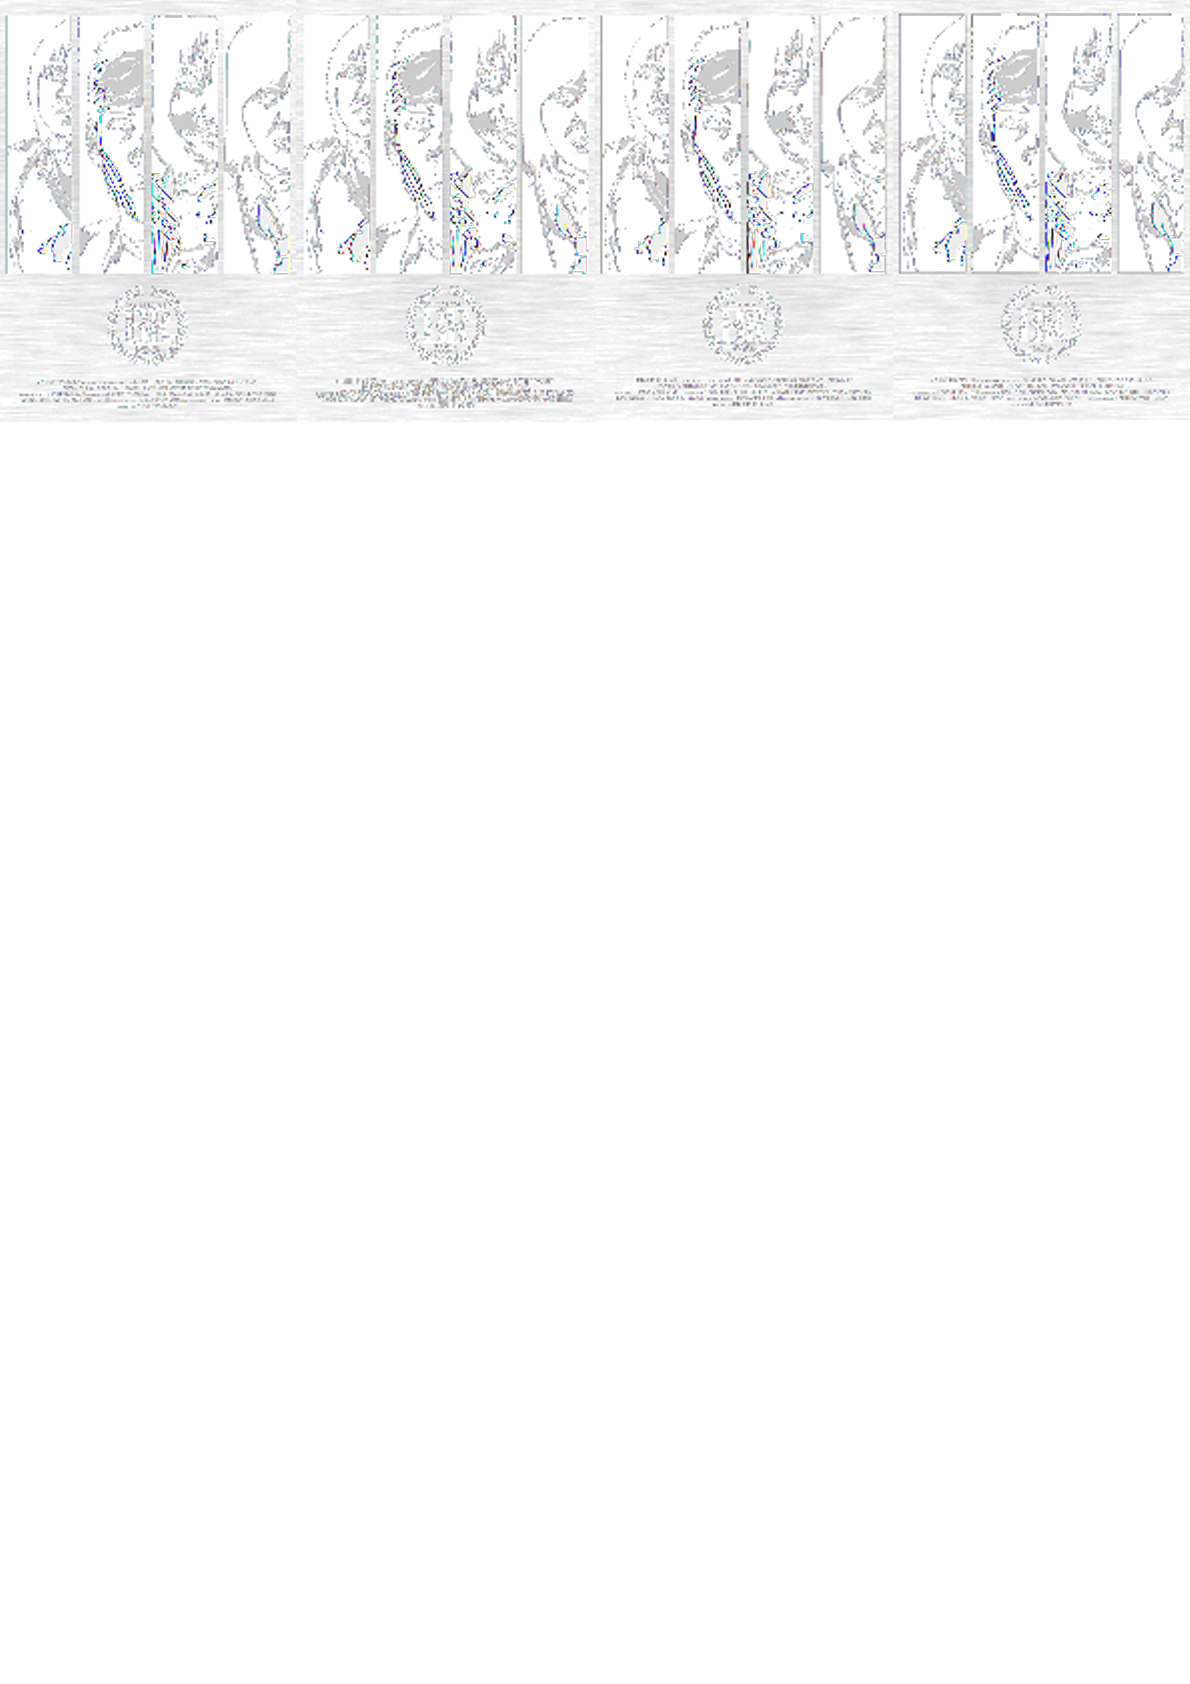
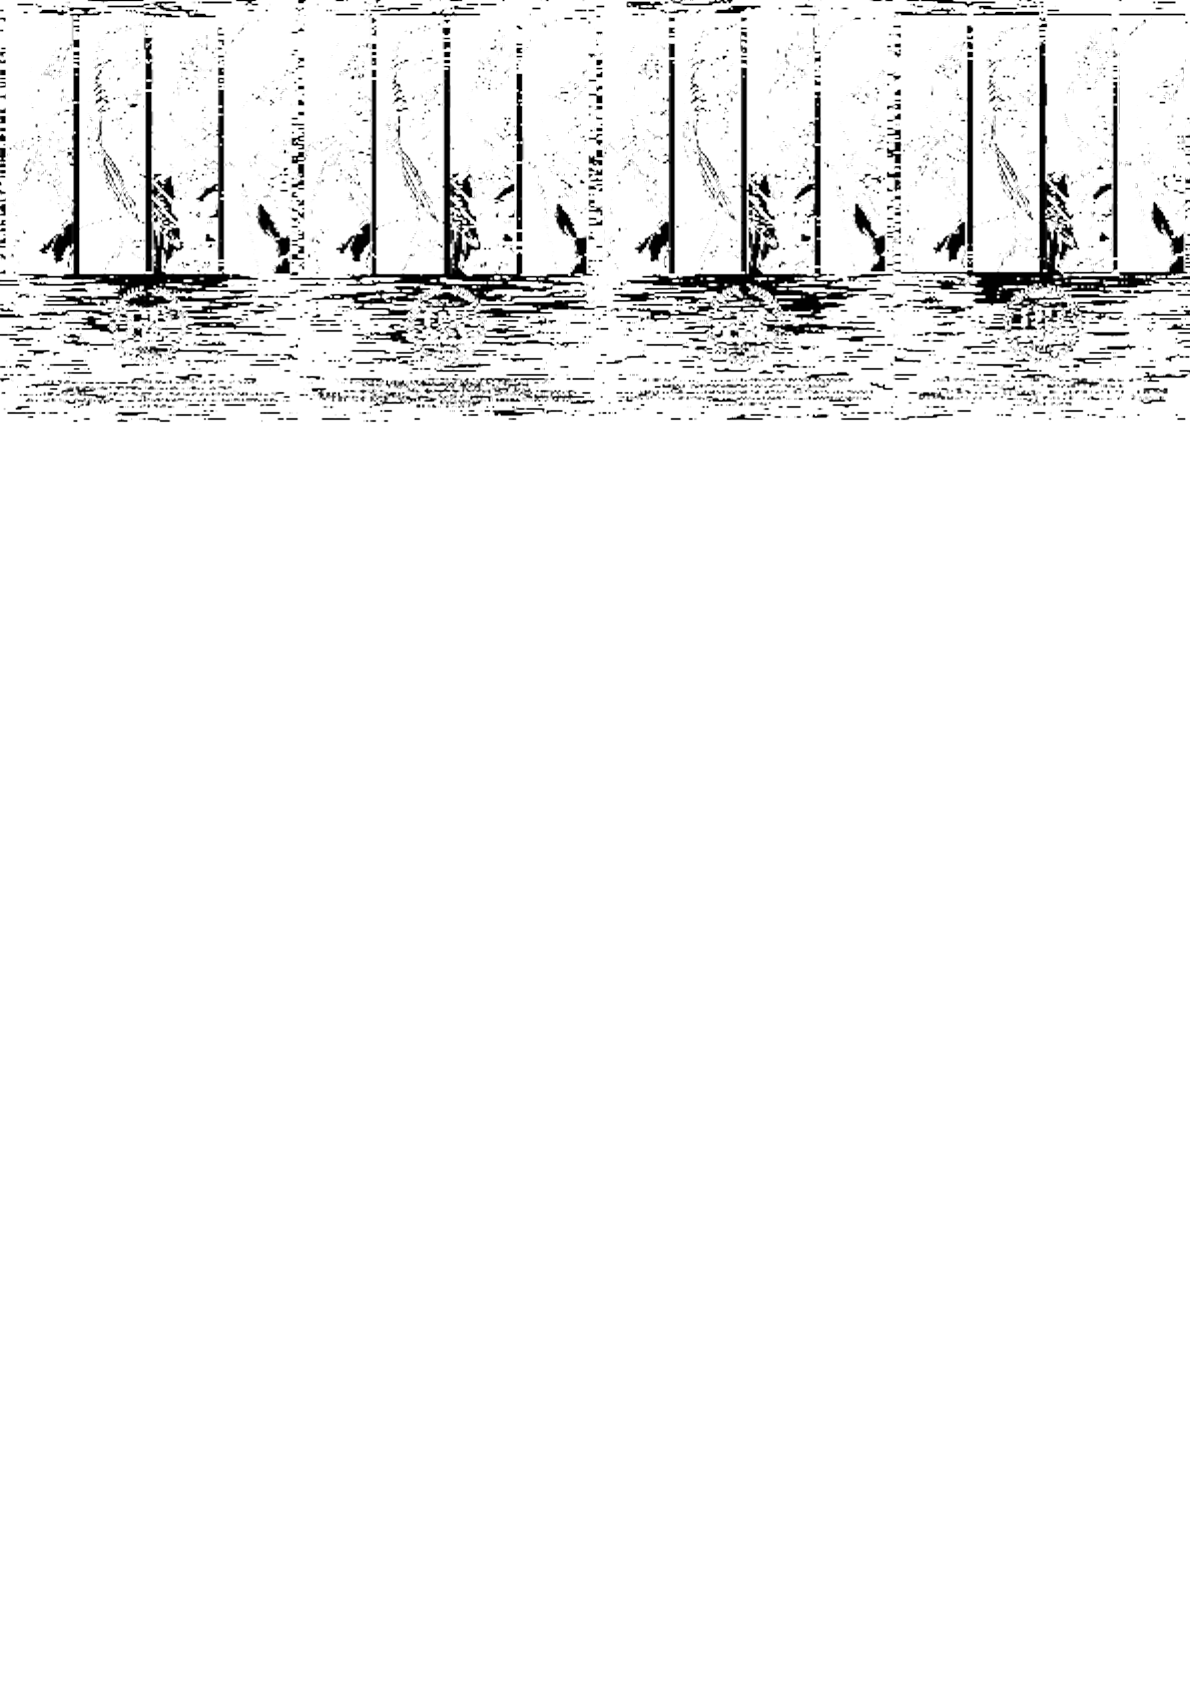
Update

Changed region(s): [[0.0, 0.0, 1.0, 0.247]]

diff --git a/app.js b/app.js
@@ -69,14 +69,16 @@ var imagen,
     width,
     height;
 
+vectors[0] =  [0, 20, 255] //CenterID Rojo
+
 function segmentImg(callback){
     Jimp.read("./images/in.jpg", function (err, image) {
-    var i = 0;
+    var i = 1;
     //imagen = image;
     width =  image.bitmap.width;
     height = image.bitmap.height;
     //var imgArray = Array.prototype.slice.call(image.bitmap.data, 0);
-    image.scan(0, 0,width , height, function (x, y, idx) {
+    image.scan(0, 0, width , height, function (x, y, idx) {
             // x, y is the position of this pixel on the image 
             // idx is the position start position of this rgba tuple in the bitmap Buffer 
             // this is the image 
@@ -86,10 +88,10 @@ function segmentImg(callback){
             var alpha = this.bitmap.data[ idx + 3 ];*/
             vectors[i] = [ this.bitmap.data[ idx ] , this.bitmap.data[ idx + 1 ], this.bitmap.data[ idx + 2 ]];
             i++;
-            if(idx == ((image.bitmap.width * image.bitmap.height) * 4)  - 4 ){
+            if(i == image.bitmap.width * image.bitmap.height){
                 console.log("Finaliza Mapeo");
                 MakeKmeans(vectors, function(result) {
-                    callback(result);
+                    callback(result);    
                 });
             }       
         }); 
@@ -101,8 +103,8 @@ function MakeKmeans(vector, callback){
         if (err){
             console.error(err);
         }else{
-            CreateSegmento(res[2], function(result) {
-                callback(result);
+            CreateSegmento(res[1], function(result) {
+                callback( result );
             }); 
         }   
     });  
@@ -114,11 +116,9 @@ function CreateSegmento(Segmento, callback){
     });
     var num = Segmento.clusterInd.length;
     for (var index = 0; index < num; index++) {
-        imagen.bitmap.data[ Segmento.clusterInd[index] ] = Segmento.cluster[index][0];
-        imagen.bitmap.data[ Segmento.clusterInd[index] + 1 ] = Segmento.cluster[index][1]
-        imagen.bitmap.data[ Segmento.clusterInd[index] + 2] = Segmento.cluster[index][2]
+        imagen.bitmap.data[ Segmento.clusterInd[index + 0] ] = 255;
     }
-    imagen.resize(width*2, height*2, Jimp.RESIZE_BEZIER).write("./out/out.png");
+    imagen.resize(width*2, height*2, Jimp.RESIZE_BEZIER).greyscale().invert().write("./out/out.png");
     imagen.getBase64( Jimp.AUTO , function(err, image) {
       if(image){
         callback(image);

diff --git a/vistas/image.html b/vistas/image.html
@@ -7,30 +7,25 @@
     <link rel="shortcut icon" href="img/icon.png" type="image/x-icon">
 	<link rel="icon" href="img/icon.png" type="image/x-icon">
 	<title> Image Segmentation </title>
-	<link rel="stylesheet" type="text/css" href="css/style.css">
-
-  	<script src="js/jquery.min.js"></script>
-  	<script src="js/script.js"></script>
 </head>
-<body>
-	<div id="Cargando" >
-          <div id="Preloader">
-          	<h3>Cargando...</h3>
-          </div>   
-    </div>
-	<div class="container">
-		<div id="title"><h1> Image Segmentation </h1></div>
-        <div class="Form" style="width: 42%;">
-            <div id="contentImg">
+<body style="width: 100%;
+    height: 100%;
+    font-family: 'Pavanam', sans-serif;
+    overflow-x: hidden;
+    background-color: #486897;">
+	<div style="width: 100%;height: 100%;position: absolute;">
+        <div style="width: 42%;margin: 0 auto;color: white;">
+            <div style="width: 288px; margin: 0 auto;">
                 <p style="overflow: hidden;">
-                    <img id="img" src={{img}} />
+                    <img id="img" src={{img}} 
+                    style=" margin-top: -21px;
+                            margin-right: -346px;
+                            margin-left: -302px;
+                            margin-bottom: -1268px;
+                            background: white;" />
                 </p>
             </div>
-            <div id="contentImgOri">
-               <img id="imgOriginal" style="width: 288px;margin-top: 12px;" src="http://24.media.tumblr.com/tumblr_lfp3qax6Lm1qfmtrbo1_1280.jpg" /> 
-            </div>
         </div>
-        <div id="error"></div>
 	</div>
 
 </body>

diff --git a/image-segmentation.md b/image-segmentation.md
@@ -2,8 +2,17 @@
 
 Para la segmentación de la imagen se utilizó el Algoritmo de  [Kmeans](https://www.npmjs.com/package/node-kmeans) realizando el siguiente proceso: 
 
-
 *Paso 1*
+
+Se crea el **vector** que contendrá los pixeles de la imagen pasando como primer elemento el color a buscar en este caso el Rojo 
+
+``` js
+vectors[0] =  [0, 20, 255] //CenterID Rojo
+```
+Este primer elemento será el CenterID utilizado por el algoritmo *Kmenas* para generar los clousters obteniendo de forma más precisa el clouster de nuestro interés para el caso, el que contenga los pixeles rojos.
+ 
+
+*Paso 2*
 
 Se itero cada pixel de la imagen tomando en cuenta que "idx" hace referencia al color Rojo, "idx+1" al color Verde y "idx+2"     al color Azul almacenándolos finalmente en un Array.
 
@@ -11,7 +20,7 @@ Se itero cada pixel de la imagen tomando en cuenta que "idx" hace referencia al 
     vectors[i] = [ this.bitmap.data[ idx ] , this.bitmap.data[ idx + 1 ], this.bitmap.data[ idx + 2 ]];
 ```
 
-*Paso 2*
+*Paso 3*
 
 Luego con los pixeles de la imagen vectorizados se procede a aplicar el Algoritmo de Kmeans pasando como parámetros el **vector** y el número de clusters en este caso **3** una vez procesado el Vector el Algoritmo retorna los siguientes datos:
 
@@ -19,7 +28,7 @@ Luego con los pixeles de la imagen vectorizados se procede a aplicar el Algoritm
 * cluster : array of X elements containing the vectors of the input data
 * clusterInd : array of X integers which are the indexes of the input data
 
-*Este algoritmo agrupara los valores de cada pixel que tengan alguna coincidencia con el pixel pivote elegido aleatoriamente.*
+*Este algoritmo agrupara los valores de cada pixel que tengan alguna coincidencia con el centerId asignado en el primer paso.*
 
 ``` js
     function MakeKmeans(vector, callback){
@@ -34,9 +43,10 @@ Luego con los pixeles de la imagen vectorizados se procede a aplicar el Algoritm
         });  
     };
 ```
-*Paso 3*
 
-En este último paso se crea la nueva imagen con las mismas dimensiones que la original y se mapeando los nuevos pixeles en los correspondientes **clusterInd** con sus correspondientes colores almacenados en **cluster**.
+*Paso 4*
+
+En este último paso se crea la nueva imagen  mapeando los nuevos pixeles en los correspondientes **clusterInd** y finalmente se convierte la imagen a escala de grises y se invierte la imagen final debido a que el resultado de kameas permite pintar el contorno de los sectores con color rojo, pero si se desean ver con más detalle es necesario realizar la conversión.
 
 ``` js
     var newImage = new Jimp(width, height, function (err, image) {
@@ -44,8 +54,7 @@ En este último paso se crea la nueva imagen con las mismas dimensiones que la o
     });
     var num = Segmento.clusterInd.length;
     for (var index = 0; index < num; index++) {
-        imagen.bitmap.data[ Segmento.clusterInd[index] ] = Segmento.cluster[index][0];
-        imagen.bitmap.data[ Segmento.clusterInd[index] + 1 ] = Segmento.cluster[index][1]
-        imagen.bitmap.data[ Segmento.clusterInd[index] + 2] = Segmento.cluster[index][2]
+        imagen.bitmap.data[ Segmento.clusterInd[index] ] = 255;
     }
+    imagen.resize(width*2, height*2, Jimp.RESIZE_BEZIER).greyscale().invert().write("./out/out.png");
 ```
